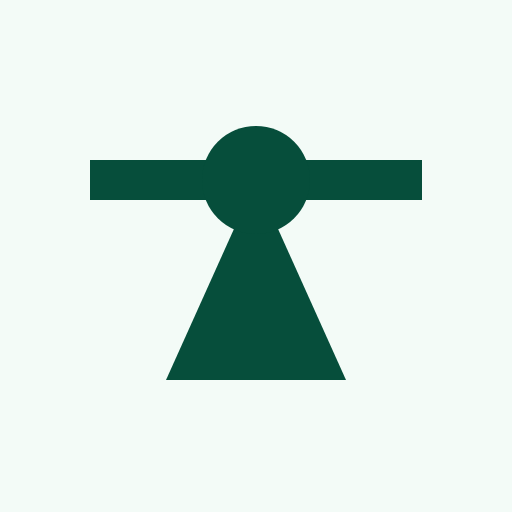
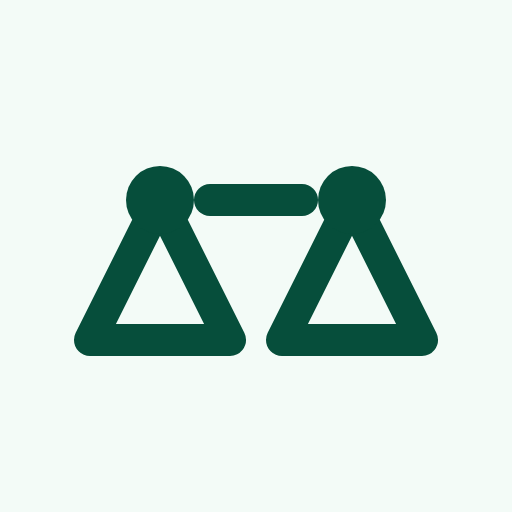
fix: アイコンを輪郭の正三角形2つと頂点の丸を横棒でつなぐ形に訂正する (#5)
kako-jun指示によるアイコン形状の再訂正。前回(0b60a54/c6a86ba)の
「正三角形1つ+頂点の丸+それを貫通する横棒」は誤った解釈だった。

正しい構成:
- 同じ大きさの正三角形を2つ左右に並べる(頂点が上、底辺は同じ高さ)
- 三角形は塗りつぶさない(輪郭線のみ)。線は太め(512pxで線幅32px、
  16-32pxでも潰れない太さ)、角は丸める
- それぞれの三角形の頂点に丸を乗せる(丸は塗り、2つ)
- 横棒は2つの丸をつなぐだけ(丸を貫通させない)。左の丸の右端から右の丸の
  左端まで、水平のまま傾けない

色は#064e3b単色、背景#f3fbf7。全体をmaskableセーフゾーン(中心80%円)に収めた。
scripts/render-icons.mjs(既存、変更なし)で192/512 PNGを再生成した。
DESIGN.md §7 の記述もこの形に更新。

Changed region(s): [[0.125, 0.25, 0.875, 0.75]]

diff --git a/DESIGN.md b/DESIGN.md
@@ -75,12 +75,12 @@ Source of truth: `docs/requirements.md`.
 
 ## 7. Icon
 
-Decided at planning time (2026-05-07): an abstract balance-scale (libra = the zodiac Libra) motif, green-based. `frontend/public/icon.svg` is the source; PWA icons and the favicon are generated from it.
+Decided at planning time (2026-05-07, corrected 2026-09-24): an abstract balance-scale (libra = the zodiac Libra) motif, single-color green (`#064e3b`) on the app background (`#f3fbf7`). `frontend/public/icon.svg` is the source; PWA icons and the favicon are generated from it.
 
-The motif is exactly three shapes, filled (not stroked), all in Primary `#064e3b` (a slightly different shade such as Tile border `#065f46` may be used for the circle alone, but a single flat color is also fine):
+The motif is exactly these shapes, all in `#064e3b`:
 
-1. An upward-pointing equilateral-ish triangle (the fulcrum/base), apex up.
-2. A circle centered on the triangle's apex (the pivot).
-3. A horizontal bar passing through that circle, perfectly level (never tilted) and symmetric left/right. Its thickness is at least 1/10 of its length so it survives a 16–32px favicon without collapsing into a hairline.
+1. Two equal-sized, upward-pointing (roughly equilateral) triangles side by side, bases at the same height. **Outline only — never filled.** The stroke is thick enough to survive a 16–32px favicon (≈28–36px at the 512×512 canvas scale) with rounded joins/caps.
+2. A filled circle sitting on each triangle's apex (one per triangle — two circles total).
+3. A single horizontal bar that only connects the two circles — it runs from the right edge of the left circle to the left edge of the right circle, ending flush with (or barely overlapping) each circle. It never pierces through either circle, and it stays perfectly level (never tilted).
 
-No pans, no hanging strings, no other motif (e.g. a speech bubble or grid) — do not swap this for a different icon concept without an explicit decision, since this was chosen deliberately over the app's own tile-grid visual language. All shapes stay within the maskable safe zone (the centered 80% circle of the 512×512 canvas) so launchers that crop to a circle/squircle never cut into the scale.
+No pans, no hanging strings, no other motif (e.g. a speech bubble, grid, or a single triangle+circle+bar) — do not swap this for a different icon concept without an explicit decision, since this was chosen deliberately over the app's own tile-grid visual language. All shapes stay within the maskable safe zone (the centered 80% circle of the 512×512 canvas) so launchers that crop to a circle/squircle never cut into the scale.
